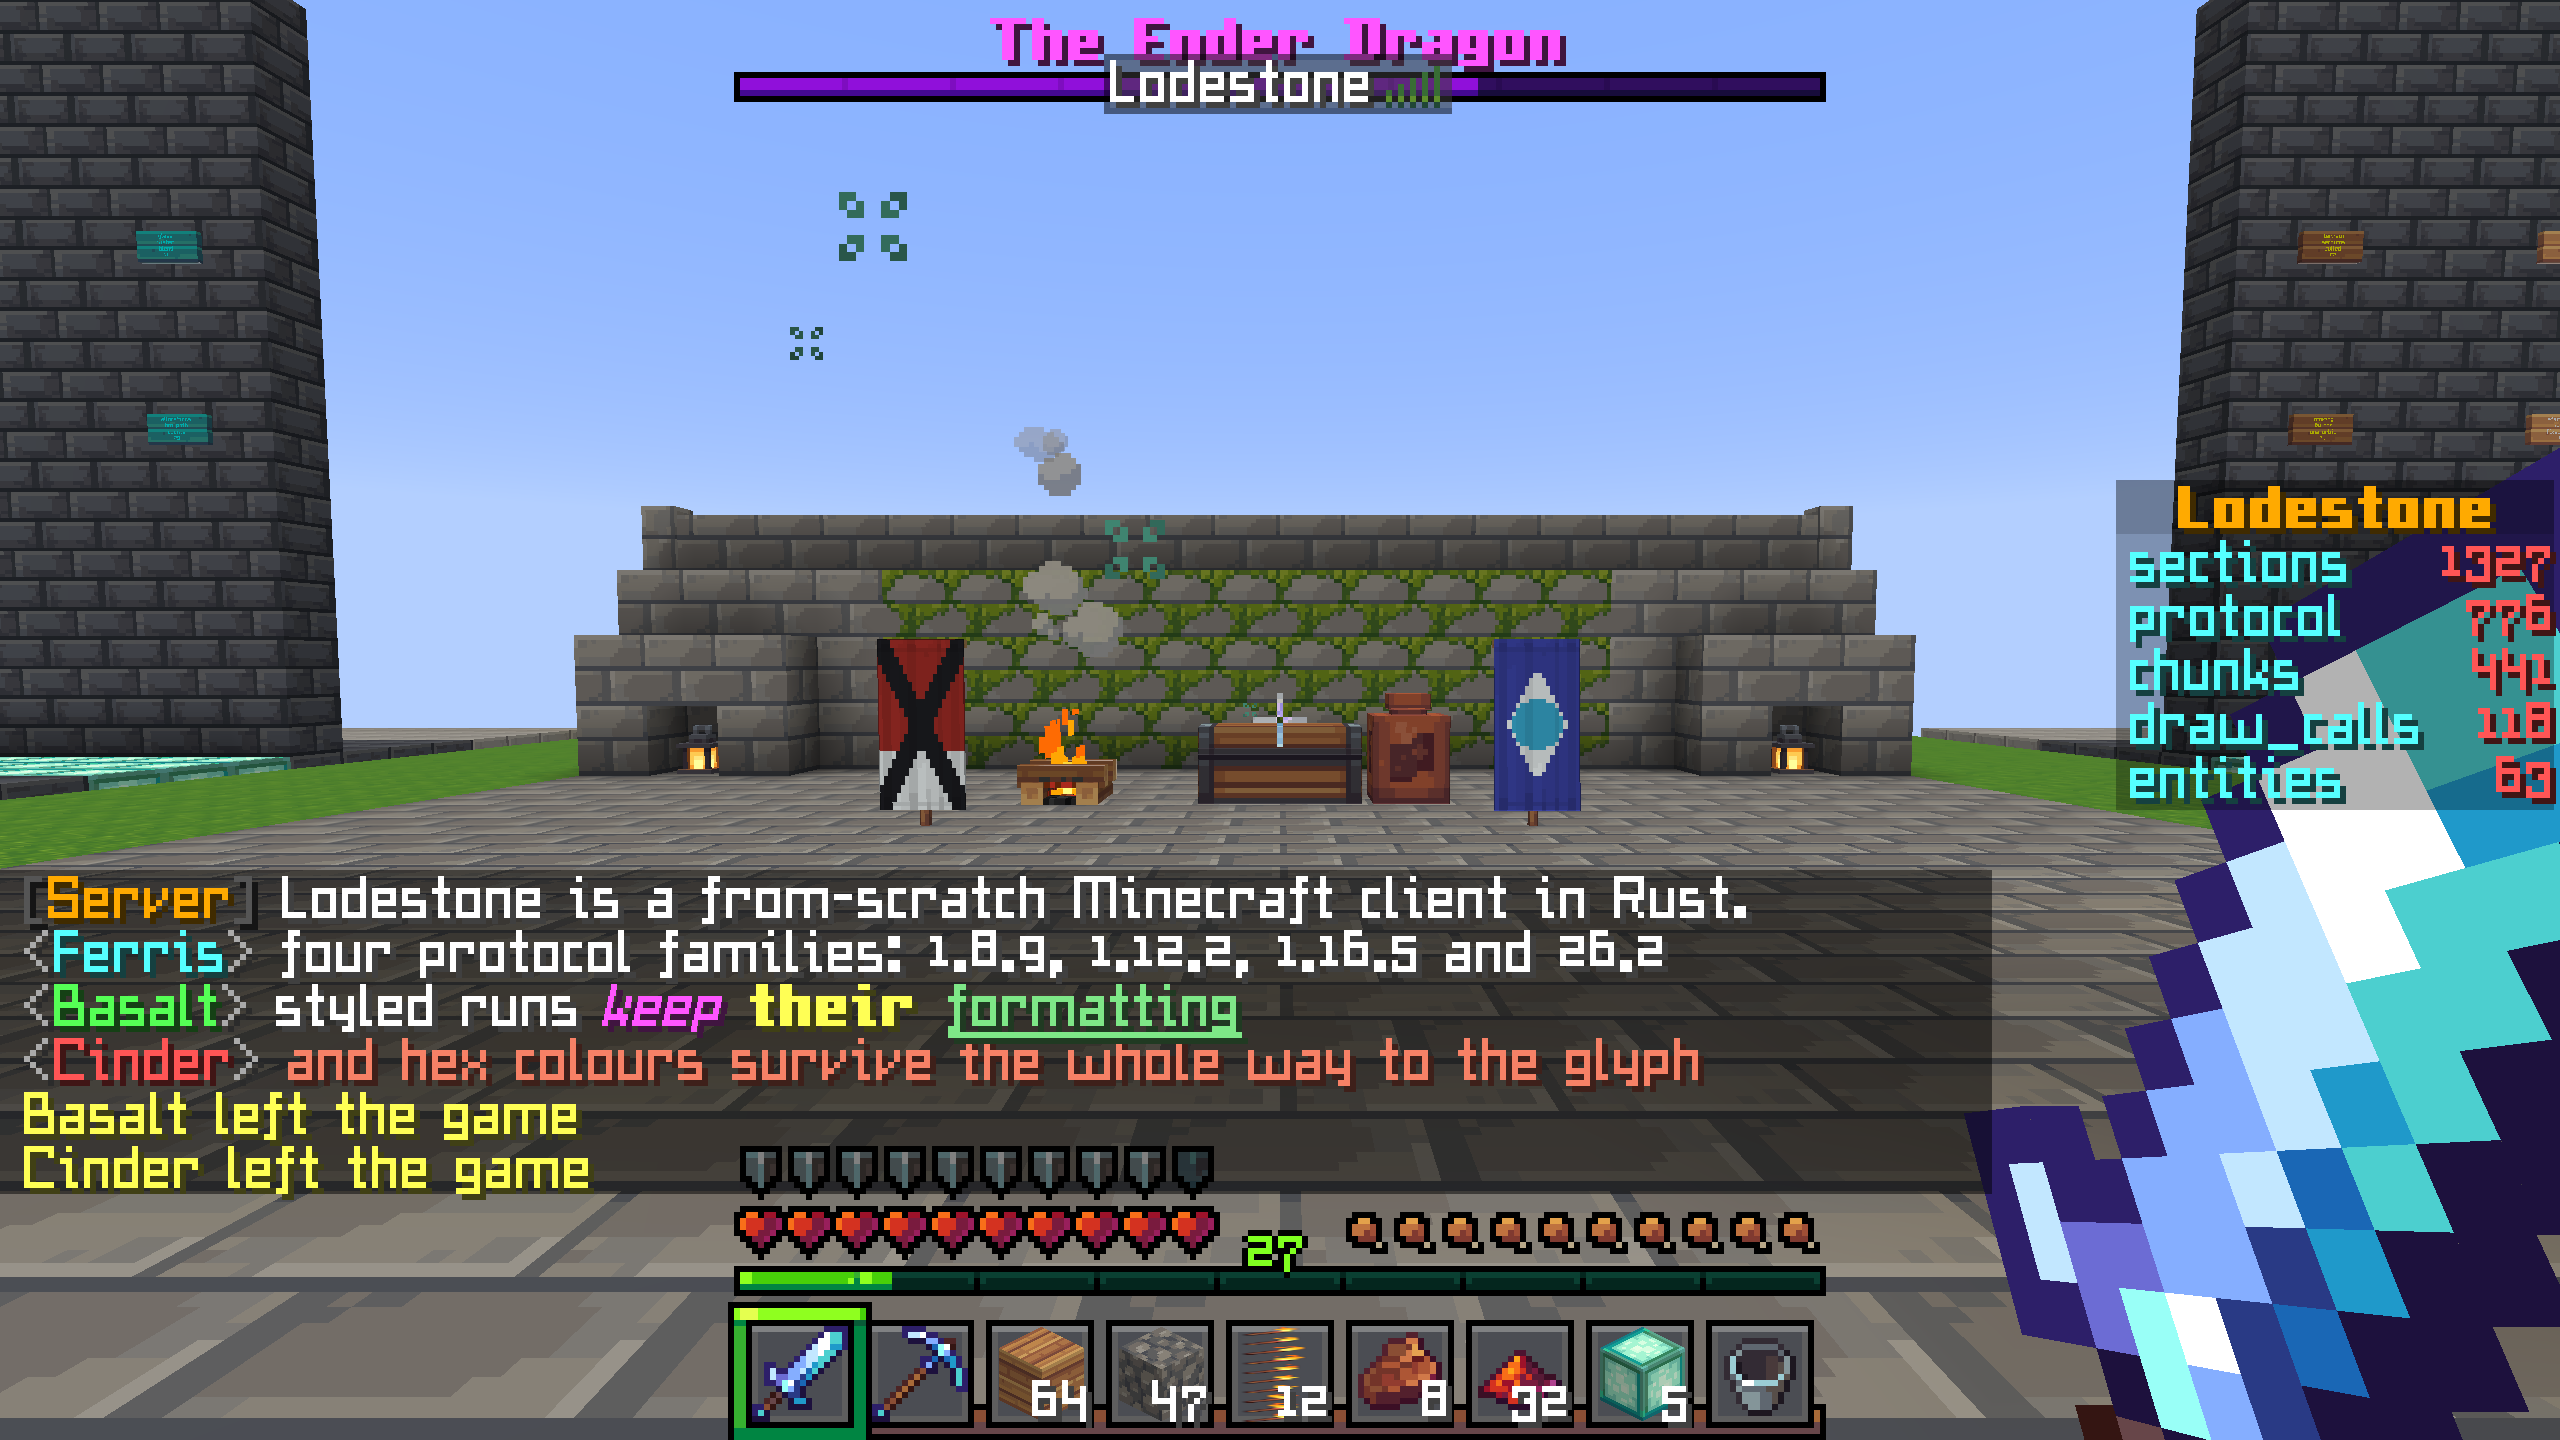
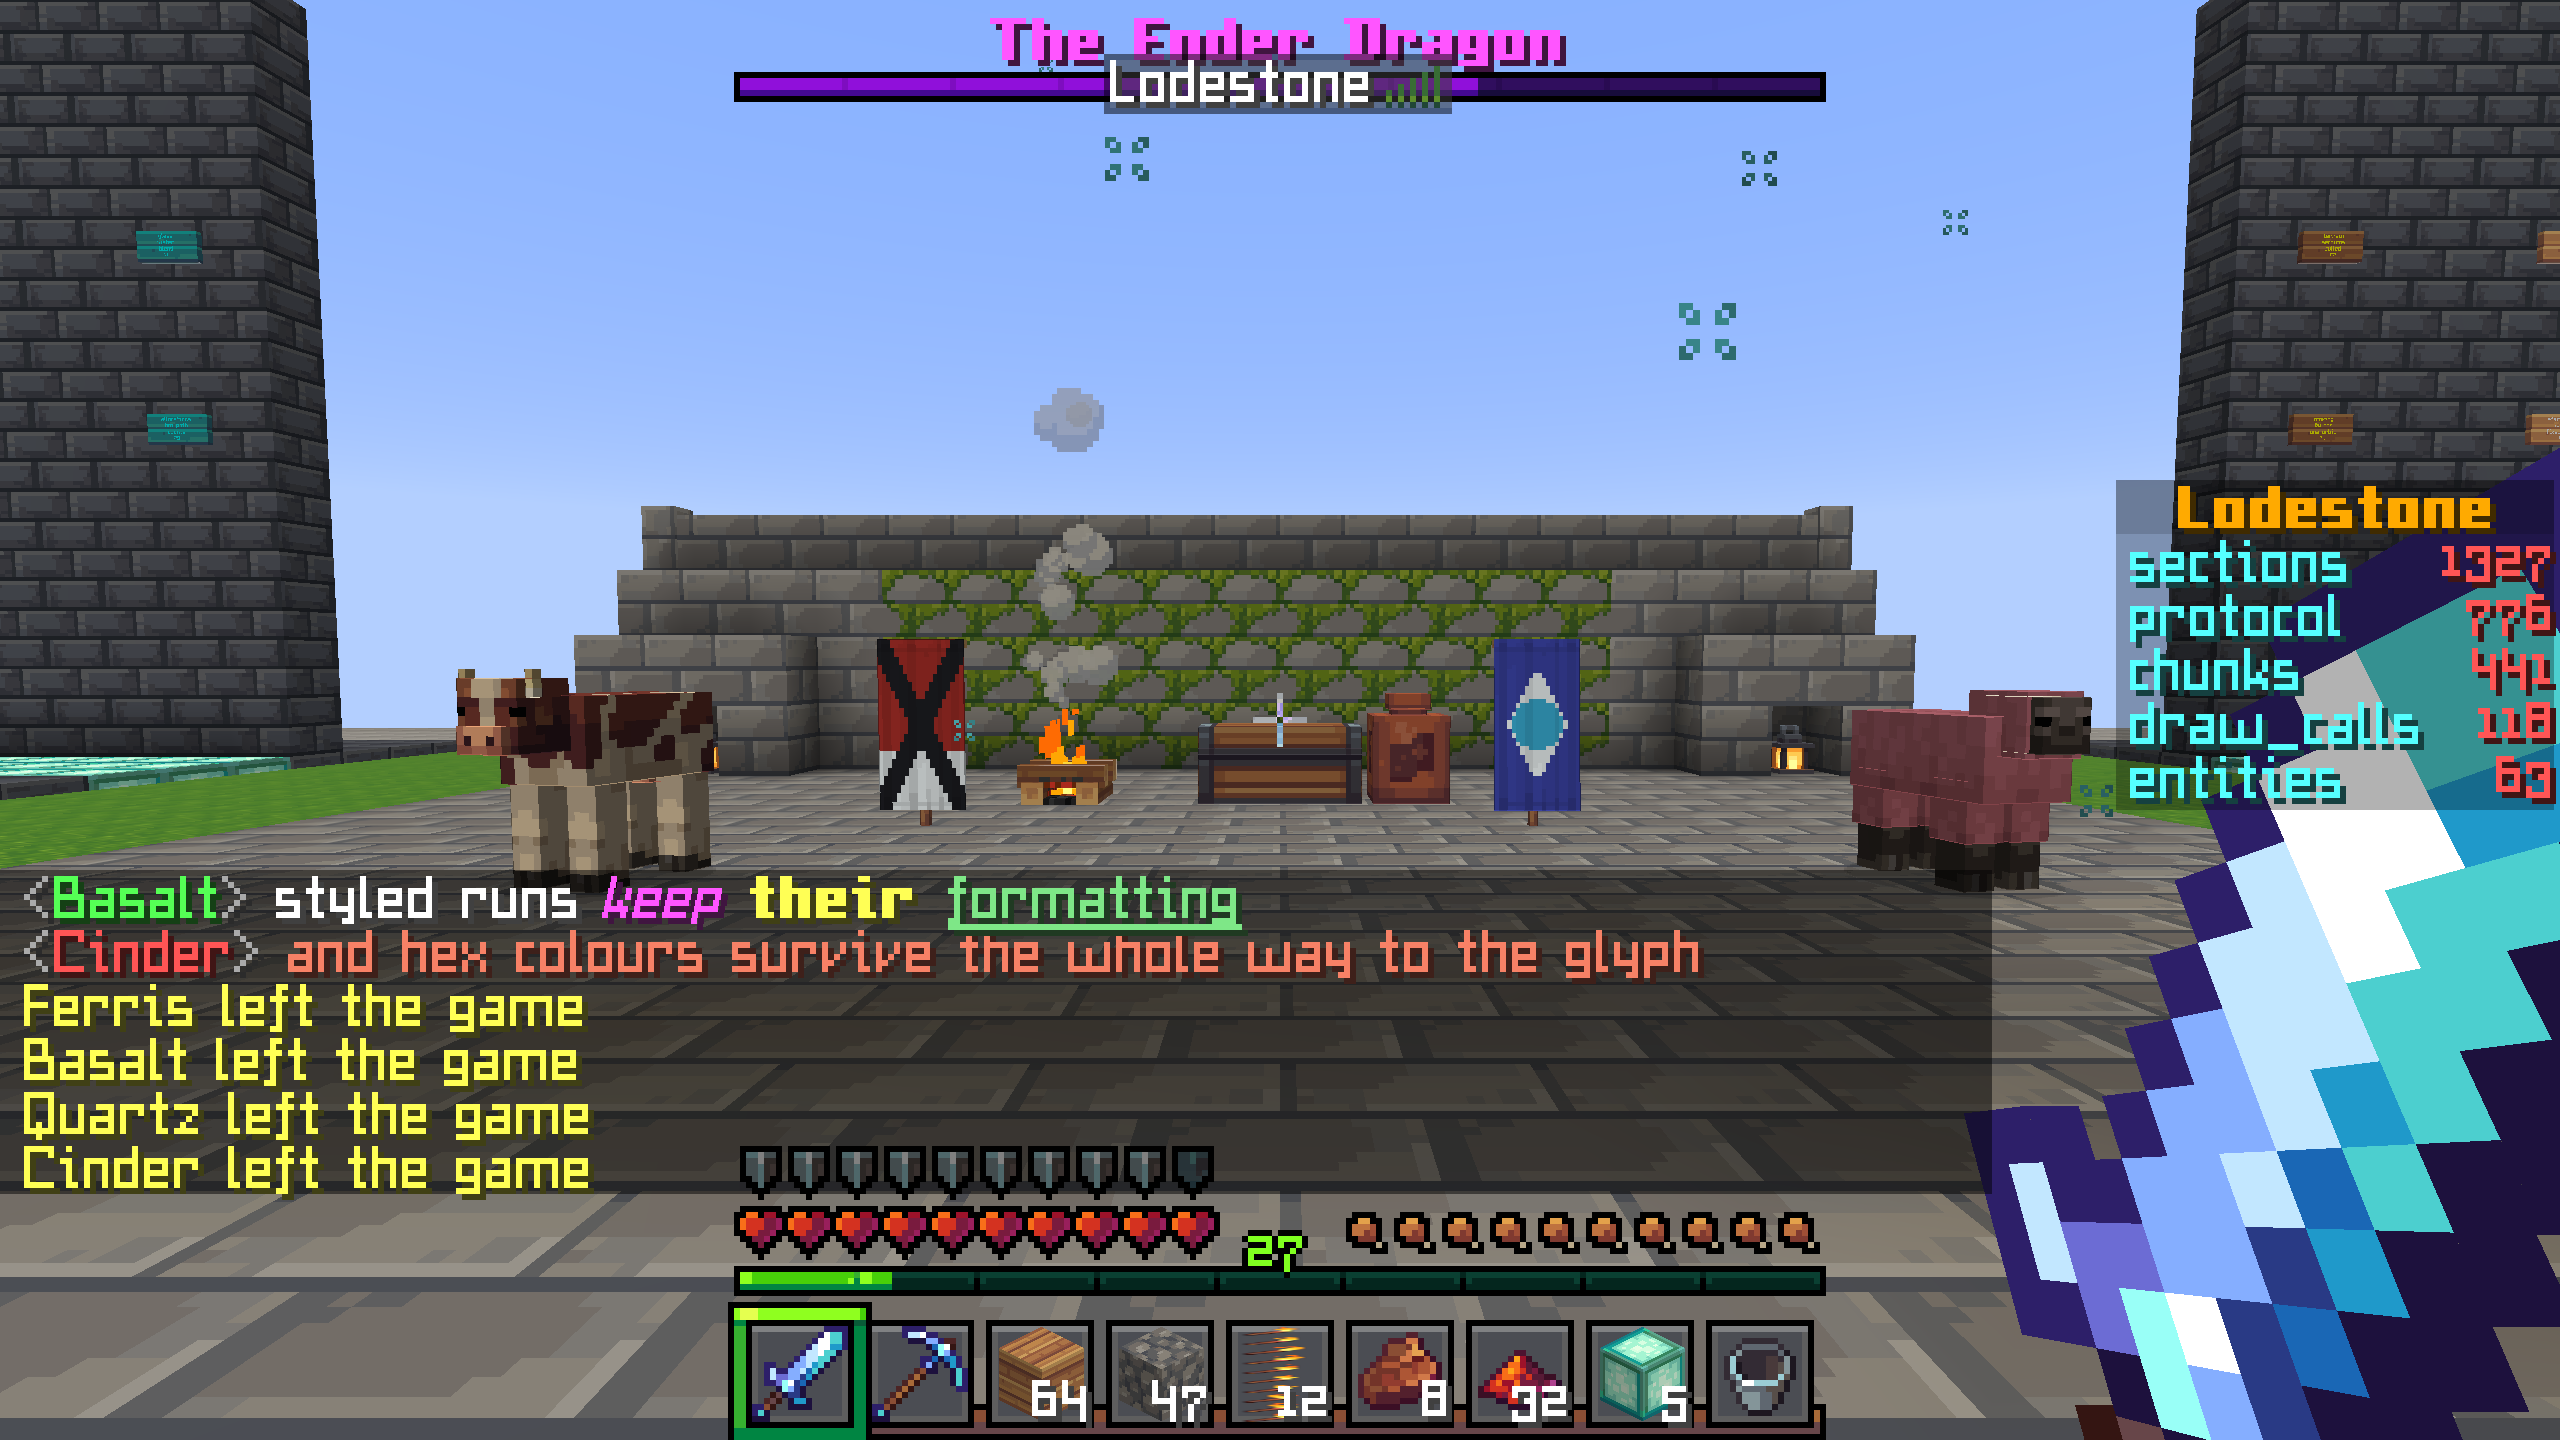
Upload entity models before capturing README screenshots

diff --git a/crates/lodestone-shell/tests/live/live_entity_render.rs b/crates/lodestone-shell/tests/live/live_entity_render.rs
@@ -281,7 +281,7 @@ fn server_sent_mob_reaches_pixels_through_shell() {
     // non-sky pixel is the pig. That is deliberate: this gate proves the *mob*
     // path, and a clean background makes "did a server-sent mob reach pixels"
     // an unambiguous yes/no.
-    let state = RenderState::new(device, queue, format, w, h, None);
+    let state = RenderState::new_headless(device, queue, format, w, h, None);
     let draws = vec![pig.clone()];
     let frame = target.acquire().expect("headless acquire");
     let stats = state.render(device, queue, frame.view(), &camera, None, &draws);

diff --git a/crates/lodestone-shell/tests/live/live_dropped_item.rs b/crates/lodestone-shell/tests/live/live_dropped_item.rs
@@ -307,7 +307,7 @@ fn a_server_spawned_drop_knows_which_item_it_is_and_reaches_pixels() {
     );
 
     // --- render it -------------------------------------------------------
-    let state = RenderState::new(device, queue, format, W, H, Some(atlas.as_ref()));
+    let state = RenderState::new_headless(device, queue, format, W, H, Some(atlas.as_ref()));
     // The item sits roughly `bob + lift` above its reported position; aim at a
     // point a little above the feet from close range, since a dropped block is
     // only a quarter of a block across.

diff --git a/crates/lodestone-shell/tests/gpu/capture_screenshots.rs b/crates/lodestone-shell/tests/gpu/capture_screenshots.rs
@@ -585,7 +585,7 @@ fn capture_readme_screenshots() {
 
     let (mut w, mut h) = scenes[0].size;
     let mut target = HeadlessTarget::new(device, w, h, format);
-    let mut render = RenderState::new(device, queue, format, w, h, sim.vanilla_atlas());
+    let mut render = RenderState::new_headless(device, queue, format, w, h, sim.vanilla_atlas());
     if let Some(sheet) = sim.particle_sheet_atlas() {
         // Mirror `App::finish_bring_up`: the CPU-side UV table and the GPU
         // texture must be the same stitch. Without this upload every sheet
